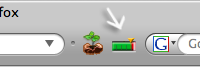
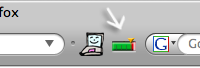
* changed ProcrasDonateIcon.png to laptop instead of sprout. no more sprout anywhere

Changed region(s): [[0.39, 0.4412, 0.54, 0.8235]]

diff --git a/procrasdonate/templates/procrasdonate/superbase.html b/procrasdonate/templates/procrasdonate/superbase.html
@@ -13,7 +13,7 @@
 		<meta http-equiv="Content-Type" content="text/html; charset=utf-8" >
 		<title>Procrastinate Less. {% block window_title %}Procrastination incentives through giving.{% endblock %}</title>
 		
-		<link rel="shortcut icon" href="{{ MEDIA_URL }}img/ProcrasDonateLogoNoText.png" type="image/x-icon" >
+		<link rel="shortcut icon" href="{{ MEDIA_URL }}img/ToolbarImages/ProcrasDonateIcon.png" type="image/x-icon" >
 
 		{# <link rel="stylesheet" type="text/css" href="{{ MEDIA_URL }}css/ui.all.css"> #}
 		<link rel="stylesheet" type="text/css" href="{{ MEDIA_URL }}css/procrasdonate.css">
